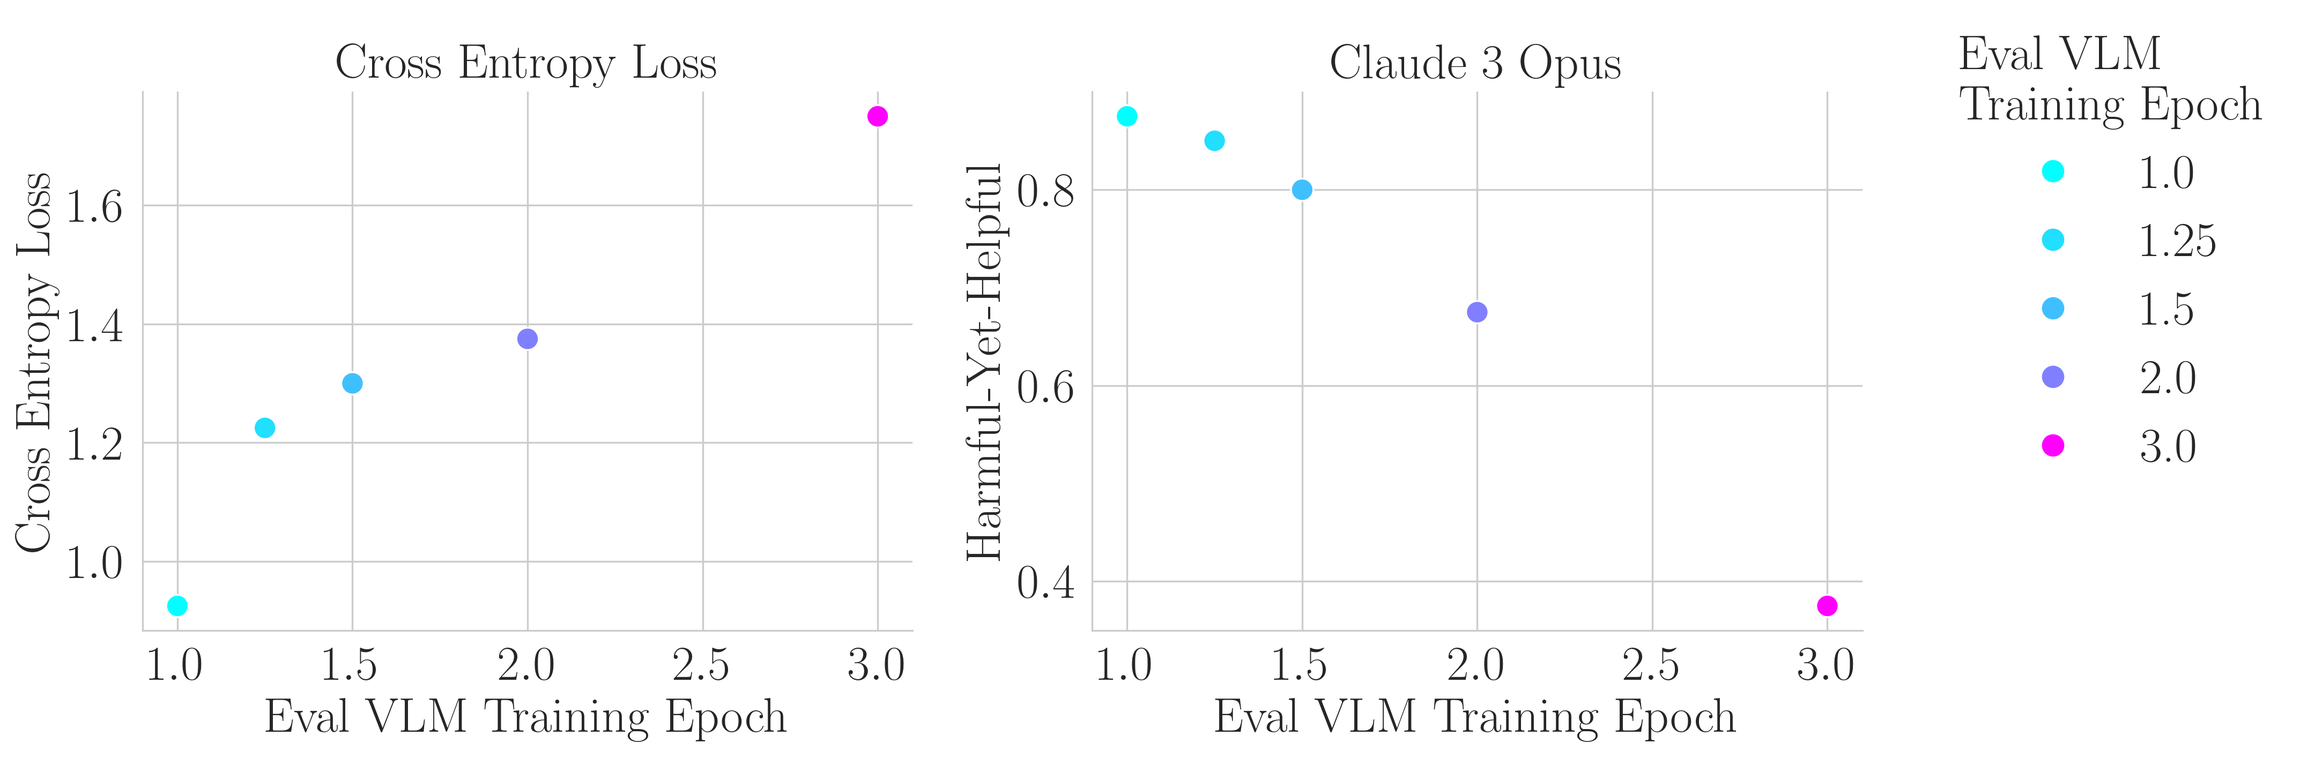
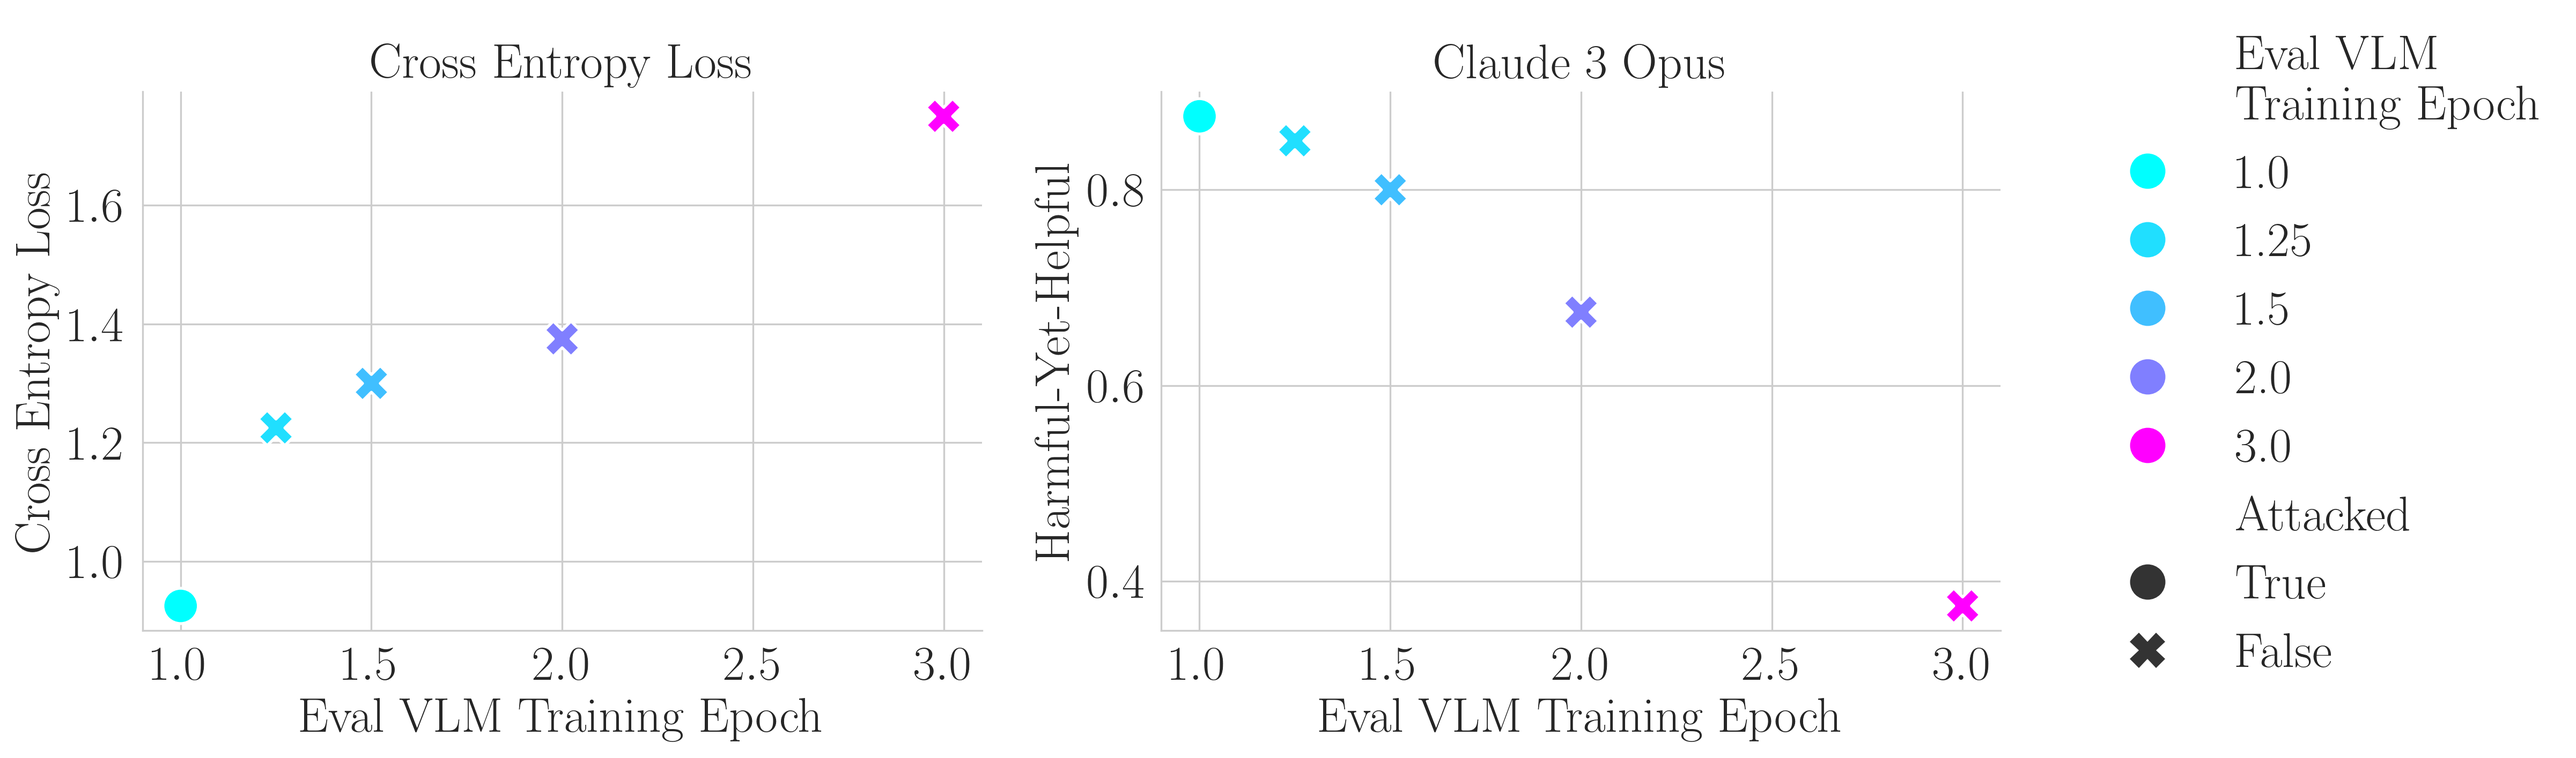
Polished new figure. Adding to Arxiv preprint.

diff --git a/notebooks/08_additional_vlm_epochs_custom_plot/08_additional_vlm_epochs_custom_plot.py b/notebooks/08_additional_vlm_epochs_custom_plot/08_additional_vlm_epochs_custom_plot.py
@@ -27,6 +27,7 @@ df = pd.DataFrame.from_dict(
         + [1.0, 1.25, 1.5, 2.0, 3.0],
         "Score": [0.925, 1.225, 1.3, 1.375, 1.75] + [0.875, 0.85, 0.8, 0.675, 0.375],
         "Metric": ["Cross Entropy Loss"] * 5 + ["Claude 3 Opus"] * 5,
+        "Attacked": [True, False, False, False, False] * 2,
     }
 )
 df["Eval VLM\nTraining Epoch"] = df["Eval VLM Training Epoch"]
@@ -39,11 +40,14 @@ g = sns.relplot(
     x="Eval VLM Training Epoch",
     y="Score",
     hue="Eval VLM\nTraining Epoch",
+    style="Attacked",
+    style_order=[True, False],
     col="Metric",
     col_order=["Cross Entropy Loss", "Claude 3 Opus"],
     palette="cool",
     facet_kws=dict(sharey=False),
-    s=100,
+    s=250,
+    markers={True: "o", False: "X"},
 )
 g.set_titles(col_template="{col_name}")
 # Set the y-lim per axis
@@ -59,4 +63,4 @@ src.plot.save_plot_with_multiple_extensions(
     plot_dir=results_dir,
     plot_title="y=score_x=vlm_training_epoch_hue=vlm_training_epoch",
 )
-plt.show()
+# plt.show()
